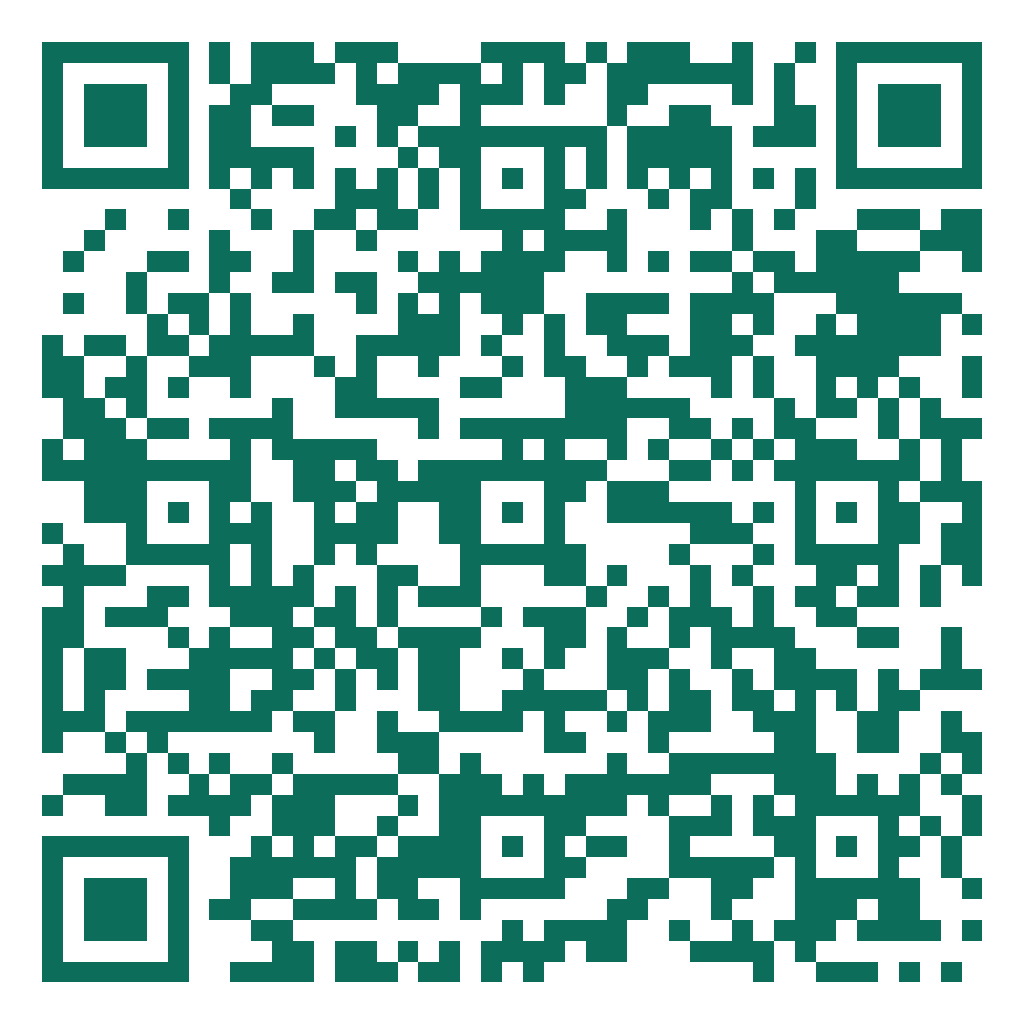
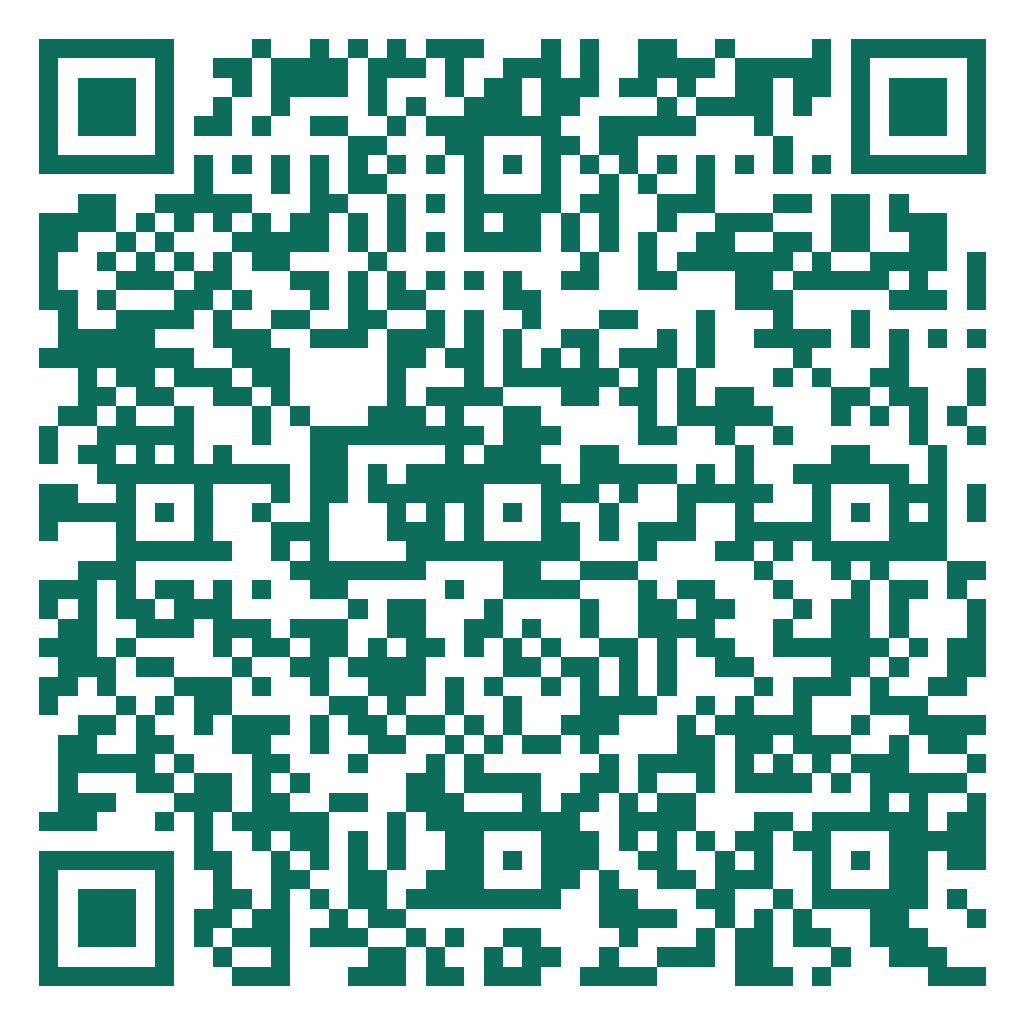
fix(location): set exact clinic address to Muqimiy 35 (Rayon Stoyanka), name organization Stomatolog Orifjon, and update Yandex and Google maps

diff --git a/frontend/src/constants/clinics.js b/frontend/src/constants/clinics.js
@@ -1,10 +1,10 @@
 export const CLINICS = [
   {
-    id: "eco-denta-orifjon",
+    id: "stomatolog-orifjon",
     name: {
-      uz: "Stomatolog Orifjon Qabuli (Eco Denta)",
-      ru: "Стоматолог Орифжон — Приём (Eco Denta)",
-      en: "Dentist Orifjon Practice (Eco Denta)",
+      uz: "Stomatolog Orifjon Qabuli",
+      ru: "Стоматолог Орифжон — Приём",
+      en: "Dentist Orifjon Practice",
     },
     dentistOffice: {
       uz: "Stomatolog Orifjon (Mansurov Orifjon Alimbekovich) qabuli",
@@ -22,19 +22,19 @@ export const CLINICS = [
       en: "Andijan",
     },
     address: {
-      uz: "Andijon shahri, Muqimiy ko'chasi, 41-uy",
-      ru: "г. Андижан, ул. Мукими, 41",
-      en: "41 Muqimiy St., Andijan, Uzbekistan",
+      uz: "Andijon shahri, Muqimiy ko'chasi, 35-uy (Rayon Stoyanka)",
+      ru: "г. Андижан, ул. Мукими, 35 (Районная стоянка)",
+      en: "35 Muqimiy St., Rayon Stoyanka, Andijan, Uzbekistan",
     },
     shortAddress: {
-      uz: "Andijon sh., Muqimiy ko'chasi, 41",
-      ru: "г. Андижан, ул. Мукими, 41",
-      en: "41 Muqimiy St., Andijan",
+      uz: "Andijon sh., Muqimiy 35 (Rayon Stoyanka)",
+      ru: "г. Андижан, Мукими 35 (Районная стоянка)",
+      en: "35 Muqimiy St., Rayon Stoyanka, Andijan",
     },
     landmark: {
-      uz: "Muqimiy ko'chasi, Eco Denta stomatologiyasi",
-      ru: "ул. Мукими, стоматология Eco Denta",
-      en: "Muqimiy St., Eco Denta dental clinic",
+      uz: "Muqimiy 35, Rayon Stoyanka",
+      ru: "Мукими 35, Районная стоянка (Rayon Stoyanka)",
+      en: "Muqimiy 35, Rayon Stoyanka",
     },
     hours: {
       uz: "Dushanba – Shanba: 08:30 – 18:30",
@@ -54,22 +54,22 @@ export const CLINICS = [
     instagram: "https://www.instagram.com/dr_orifjon/",
     instagramHandle: "@dr_orifjon",
     coordinates: {
-      lat: 40.759178,
-      lng: 72.354301,
+      lat: 40.759335,
+      lng: 72.358407,
     },
     maps: {
-      google: "https://www.google.com/maps/search/?api=1&query=40.759178,72.354301",
-      googleFull: "https://www.google.com/maps/search/?api=1&query=40.759178,72.354301",
-      googleEmbed: "https://www.google.com/maps?q=40.759178,72.354301&hl=uz&z=16&output=embed",
-      yandex: "https://yandex.uz/maps/org/ecodenta_stomotologiyasi/157518762948/",
-      yandexShort: "https://yandex.uz/maps/org/ecodenta_stomotologiyasi/157518762948/",
-      yandexEmbed: "https://yandex.uz/map-widget/v1/org/ecodenta_stomotologiyasi/157518762948/?ll=72.354301%2C40.759178&z=17",
-      yandexOrgId: "157518762948",
-      yandexReviewUrl: "https://yandex.uz/maps/org/ecodenta_stomotologiyasi/157518762948/reviews/",
-      yandexRouteUrl: "https://yandex.uz/maps/?rtext=~40.759178,72.354301&rtt=auto",
+      google: "https://www.google.com/maps/search/?api=1&query=40.759335,72.358407",
+      googleFull: "https://www.google.com/maps/search/?api=1&query=40.759335,72.358407",
+      googleEmbed: "https://www.google.com/maps?q=40.759335,72.358407&hl=uz&z=17&output=embed",
+      yandex: "https://yandex.uz/maps/?text=Stomatolog+Orifjon+Andijon+Muqimiy+35",
+      yandexShort: "https://yandex.uz/maps/?text=Stomatolog+Orifjon+Andijon+Muqimiy+35",
+      yandexEmbed: "https://yandex.uz/map-widget/v1/?ll=72.358407%2C40.759335&z=17&pt=72.358407,40.759335,pm2rdm",
+      yandexOrgId: "",
+      yandexReviewUrl: "https://yandex.uz/maps/?text=Stomatolog+Orifjon+Andijon+Muqimiy+35",
+      yandexRouteUrl: "https://yandex.uz/maps/?rtext=~40.759335,72.358407&rtt=auto",
       googlePlaceId: "",
       googleCid: "",
-      googleReviewUrl: "https://www.google.com/maps/search/?api=1&query=40.759178,72.354301",
+      googleReviewUrl: "https://www.google.com/maps/search/?api=1&query=40.759335,72.358407",
     },
   },
 ];

diff --git a/frontend/src/constants/seo.js b/frontend/src/constants/seo.js
@@ -55,19 +55,19 @@ export const PAGE_SEO = {
   },
   contact: {
     uz: {
-      title: "Aloqa va Manzil — Eco Denta | Stomatolog Orifjon (Andijon, Muqimiy ko'chasi)",
+      title: "Aloqa va Manzil — Stomatolog Orifjon (Andijon, Muqimiy 35, Rayon Stoyanka)",
       description:
-        "Eco Denta — Stomatolog Orifjon qabuli (Andijon shahri, Muqimiy ko'chasi). Telefon: +998 90 548 10 90, Telegram: @dr_orifjon_1, Instagram: @dr_orifjon. Dushanba-Shanba 08:30–18:30.",
+        "Stomatolog Orifjon qabuli (Andijon shahri, Muqimiy 35, Rayon Stoyanka). Telefon: +998 90 548 10 90, Telegram: @dr_orifjon_1, Instagram: @dr_orifjon. Dushanba-Shanba 08:30–18:30.",
     },
     ru: {
-      title: "Контакты и Адрес — Эко Дента | Стоматолог Орифжон (Андижан, ул. Мукими)",
+      title: "Контакты и Адрес — Стоматолог Орифжон (Андижан, ул. Мукими 35, Районная стоянка)",
       description:
-        "Eco Denta — Приём Стоматолога Орифжона (г. Андижан, ул. Мукими). Телефон: +998 90 548 10 90, Telegram: @dr_orifjon_1, Instagram: @dr_orifjon. Понедельник–Суббота 08:30–18:30.",
+        "Приём Стоматолога Орифжона (г. Андижан, ул. Мукими 35, Rayon Stoyanka). Телефон: +998 90 548 10 90, Telegram: @dr_orifjon_1, Instagram: @dr_orifjon. Понедельник–Суббота 08:30–18:30.",
     },
     en: {
-      title: "Contact & Location — Eco Denta | Dentist Orifjon (Andijan, Muqimiy St.)",
+      title: "Contact & Location — Dentist Orifjon (Andijan, 35 Muqimiy St., Rayon Stoyanka)",
       description:
-        "Eco Denta — Dentist Orifjon Practice (Andijan, Muqimiy St.). Tel: +998 90 548 10 90, Telegram: @dr_orifjon_1, Instagram: @dr_orifjon. Monday–Saturday 08:30–18:30.",
+        "Dentist Orifjon Practice (Andijan, 35 Muqimiy St., Rayon Stoyanka). Tel: +998 90 548 10 90, Telegram: @dr_orifjon_1, Instagram: @dr_orifjon. Monday–Saturday 08:30–18:30.",
     },
   },
   booking: {

diff --git a/frontend/public/qr-stand.html b/frontend/public/qr-stand.html
@@ -428,7 +428,7 @@
 
           <!-- Prompt Text -->
           <p class="card-footer-prompt">Kamerani QR-kodga qarating</p>
-          <a href="https://www.google.com/maps/search/?api=1&query=40.759178,72.354301" target="_blank" rel="noopener noreferrer" class="card-footer-link link-google">Google Xaritalarda baholash</a>
+          <a href="https://www.google.com/maps/search/?api=1&query=40.759335,72.358407" target="_blank" rel="noopener noreferrer" class="card-footer-link link-google">Google Xaritalarda baholash</a>
 
         </div>
 
@@ -454,7 +454,7 @@
 
           <!-- Prompt Text -->
           <p class="card-footer-prompt">Kamerani QR-kodga qarating</p>
-          <a href="https://yandex.uz/maps/org/ecodenta_stomotologiyasi/157518762948/" target="_blank" rel="noopener noreferrer" class="card-footer-link link-yandex">Yandeks Xaritalarda baholash</a>
+          <a href="https://yandex.uz/maps/?text=Stomatolog+Orifjon+Andijon+Muqimiy+35" target="_blank" rel="noopener noreferrer" class="card-footer-link link-yandex">Yandeks Xaritalarda baholash</a>
 
         </div>
 
